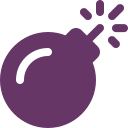
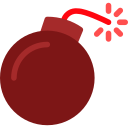
.

diff --git a/css/css.css b/css/css.css
@@ -4,9 +4,10 @@ body{
 header{
     color:#7d1313; 
     font-family: Arial, "Helvetica Neue", Helvetica, sans-serif;
-    font-size: x-large;
+    font-size: xx-large;
     margin-left: 90%;
     position: fixed;
+    font-weight: bolder;
     
 
 }
@@ -92,10 +93,12 @@ input{
 }
 
 #activarbomba{
-    border-radius: 15px;
+    width: 10%;
+    border-radius: 70px;
     background-color: rgb(226, 208, 209);
     font-family: Arial, "Helvetica Neue", Helvetica, sans-serif;
     font-size: large;
+    font-weight: bolder;
     color:#7d1313; 
     margin-left: 4%;
     cursor: pointer;
@@ -124,7 +127,7 @@ p{
 
 .contenedorcables{
     margin-top: 0%;
-    margin-left: 35%;
+    margin-left: 36%;
     display: flex;
    
 }
@@ -197,7 +200,7 @@ p{
 #cable9{
     height: 300px;
     width: 25px;
-   background: rgb(165, 42, 42);
+   background: #a52a2a;
    margin-left: 20px;
    cursor:pointer;
 }
@@ -205,10 +208,34 @@ p{
 #cable10{
     height: 300px;
     width: 25px;
-   background: rgb(50, 5, 5);
+   background: #320505;
    margin-left: 20px;
    cursor:pointer;
 }
 #ups{
     display: none;
+}
+
+#looser{
+    width: 40%;
+    margin-top: 5%;
+    margin-left: 30%;
+
+}
+
+#rip{
+    width: 60%;
+    margin-top: 2%;
+    margin-left: 21%;
+    margin-bottom: 5%;
+}
+
+#jugardenuevo{
+    font-size: xx-large;
+    width: 30%;
+    margin-left: 35%;
+    cursor: pointer;
+    font-family: Arial, "Helvetica Neue", Helvetica, sans-serif;
+    border-radius: 15px;
+
 }

diff --git a/index.html b/index.html
@@ -48,7 +48,7 @@
         <button id="activarbomba">Activar Bomba</button>
        
         </div>
-        <img src="multimedia/bombita.png" id="bombadetiempo">
+        <img src="multimedia/bomba-central.png" id="bombadetiempo">
 </div>
 
 <div class="contenedorcables">
@@ -76,6 +76,15 @@
 
 <section class="pantallas" id="pantalla3">
 
+    <img id="looser" src="multimedia/looser.png">
+
+    <button id="jugardenuevo">Jugar de nuevo</button>
+
+    <img id="rip" src="multimedia/rip.png">
+
+ 
+
+ 
 
 </section>
 
@@ -115,9 +124,10 @@ activar.onclick = function iniciarcuentaregresiva(){
         if(valorinicial !== 0){
             valorinicial --;
         }
-      
+          
         
     }, 1000);
+    
 }
 
 // funciones de cables
@@ -185,7 +195,9 @@ for(i=0;i<cables.length; i++){
 }
 }
 
-
+// revisar que cuando la bomba llega a cero no deja de contar,
+// sigue en -1, -2 y asi y si le das activar de nuevo vuelve a 60 pero mostrando ese bug
+//
 
 
 
